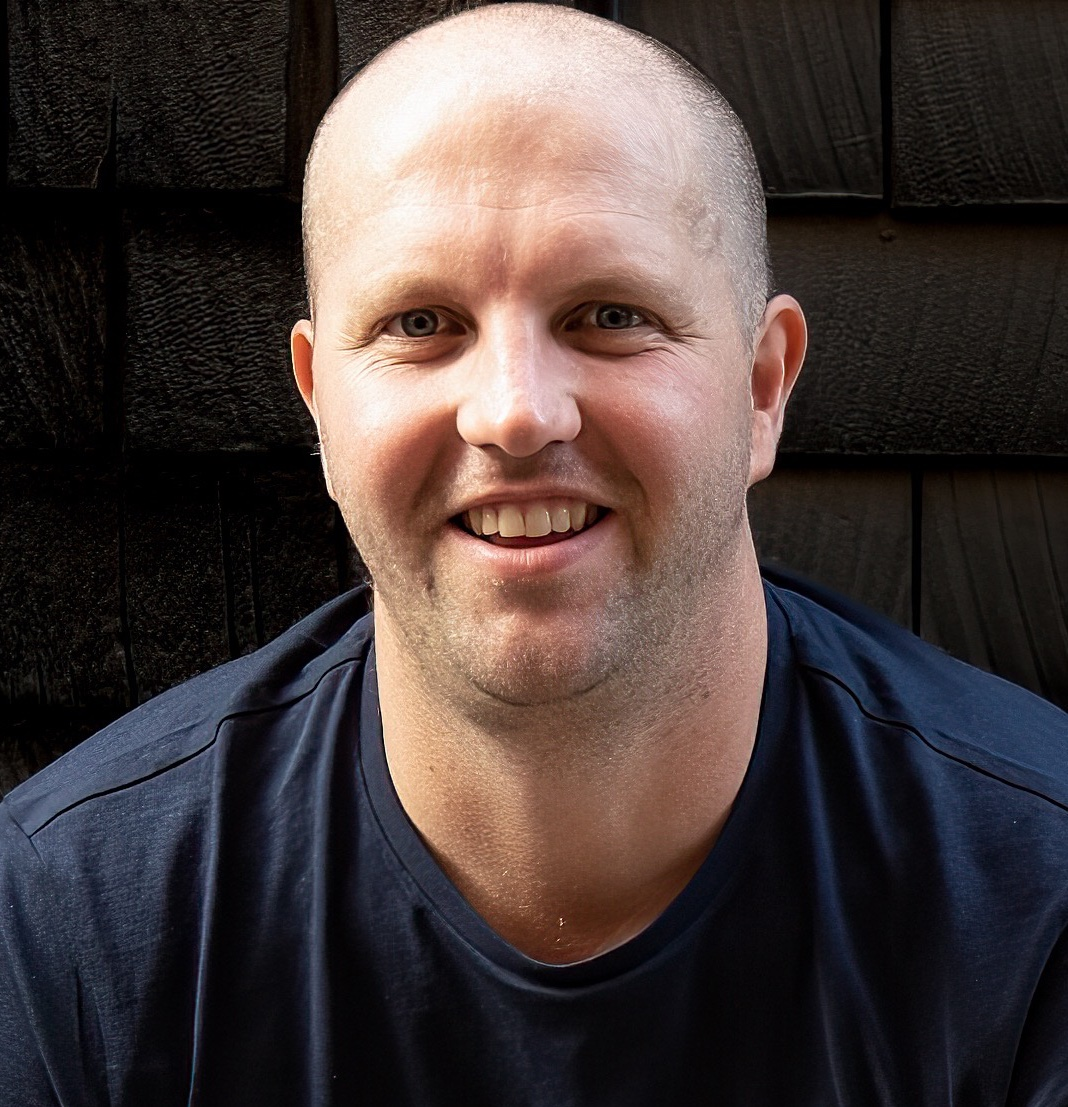
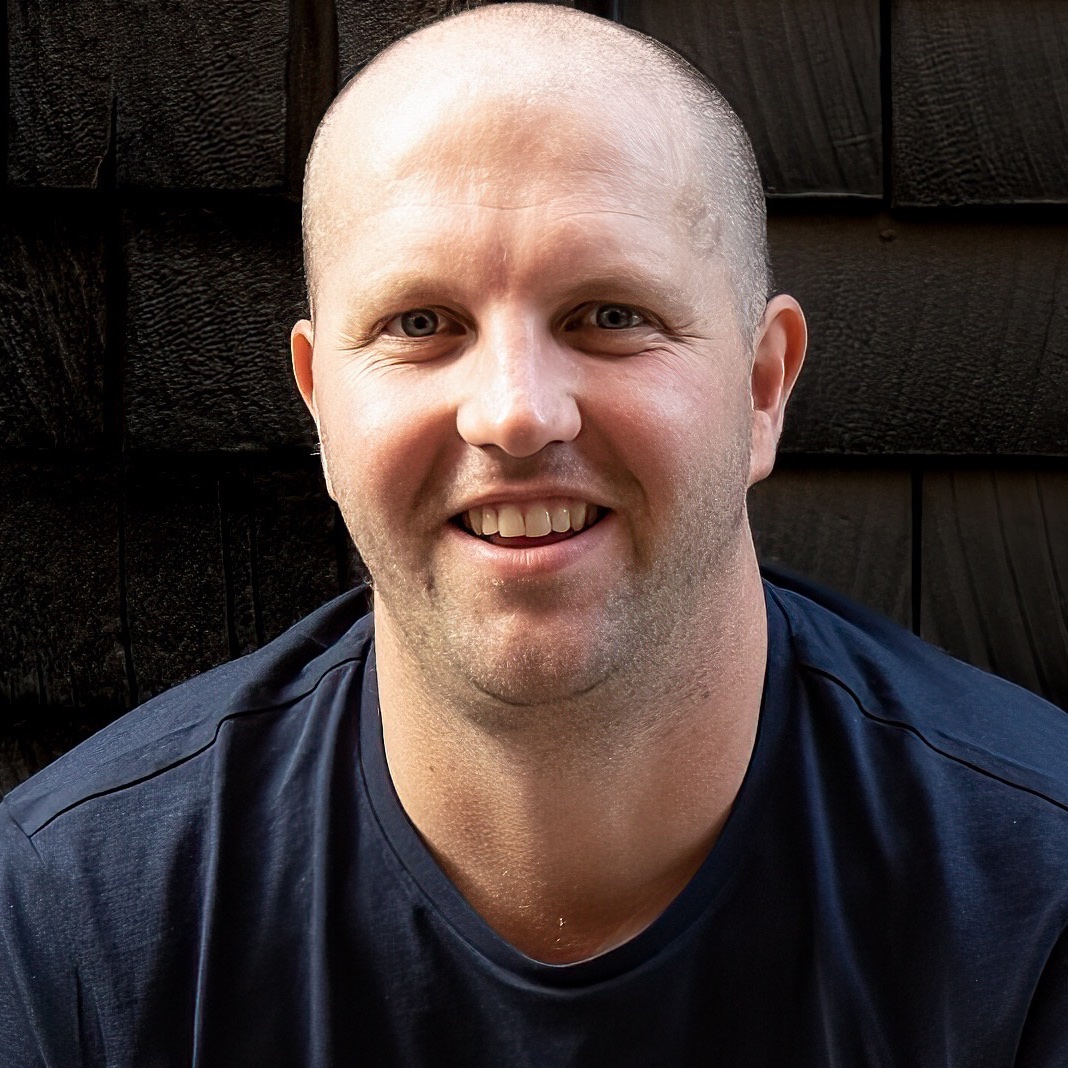
new square photos

diff --git a/content/the-foundation/board-and-governance.md b/content/the-foundation/board-and-governance.md
@@ -126,7 +126,7 @@ Will is the Head of Operational Delivery for BSI Identify. Will and his team hav
 
 
 ### Clarivate {#Clarivate}
-{{< figure src="/images/board/rachel.jpeg" title="Rachel Kessler" height="100px" >}} 
+{{< figure src="/images/board/rachel.jpg" title="Rachel Kessler" height="100px" >}} 
 
 Rachel Kessler is a Senior Product Manager in the Academia & Government division of Clarivate, where she is responsible for the strategic direction of ProQuest’s Social Science Aggregation portfolio. Prior to being employed by ProQuest and then Clarivate, she worked for Ex Libris on their discovery services and link resolvers. She co-chairs the [NISO Open Discovery Initiative](https://www.niso.org/standards-committees/odi) and serves as a Review Editor for the journal [Learned Publishing](https://onlinelibrary.wiley.com/journal/17414857). She holds a BA in Economics from Columbia University and an MBA from the Hebrew University in
 Jerusalem.
